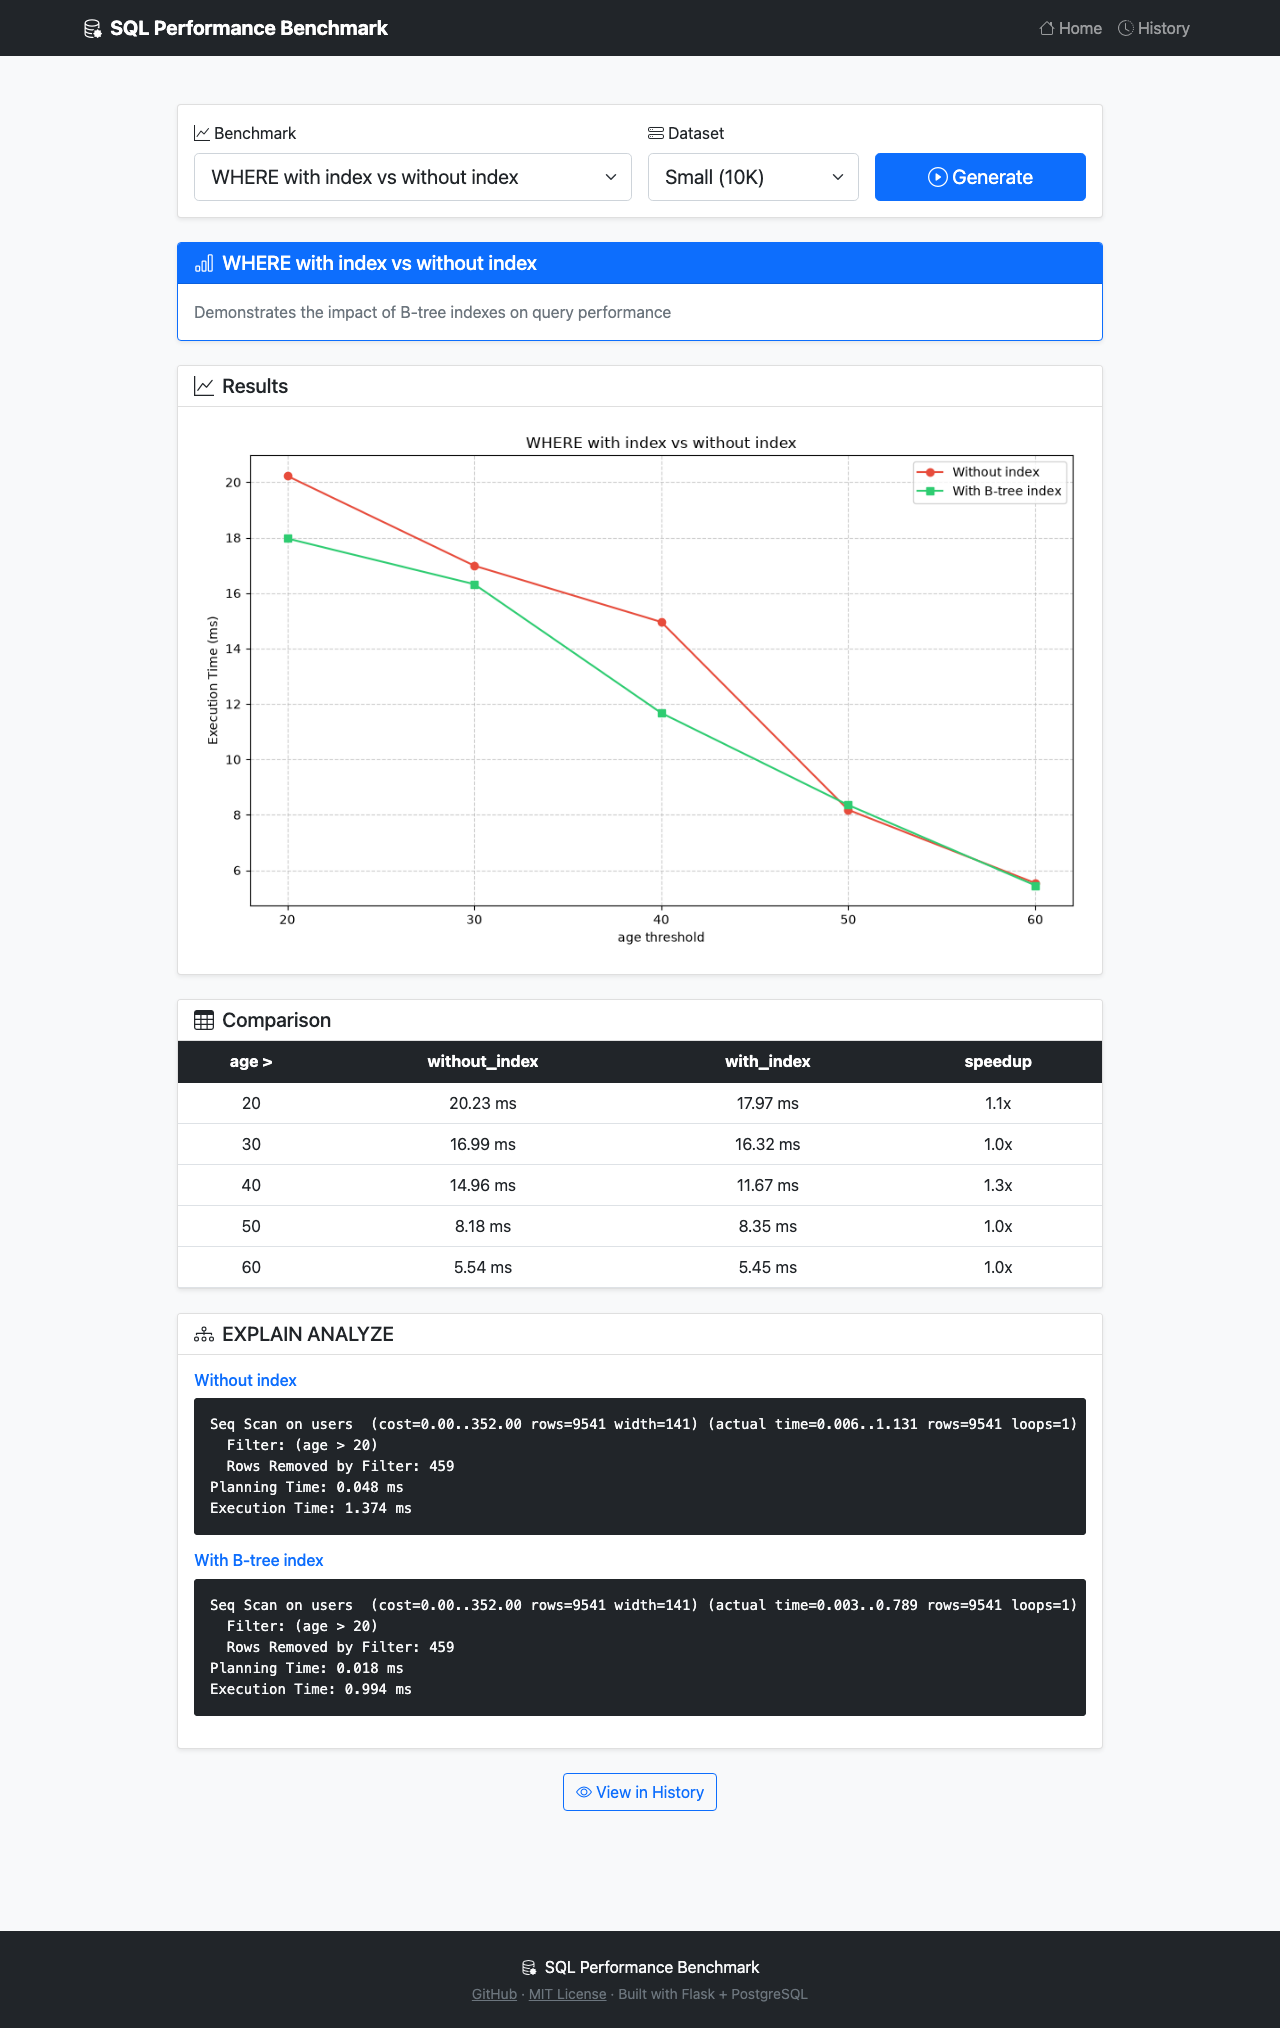
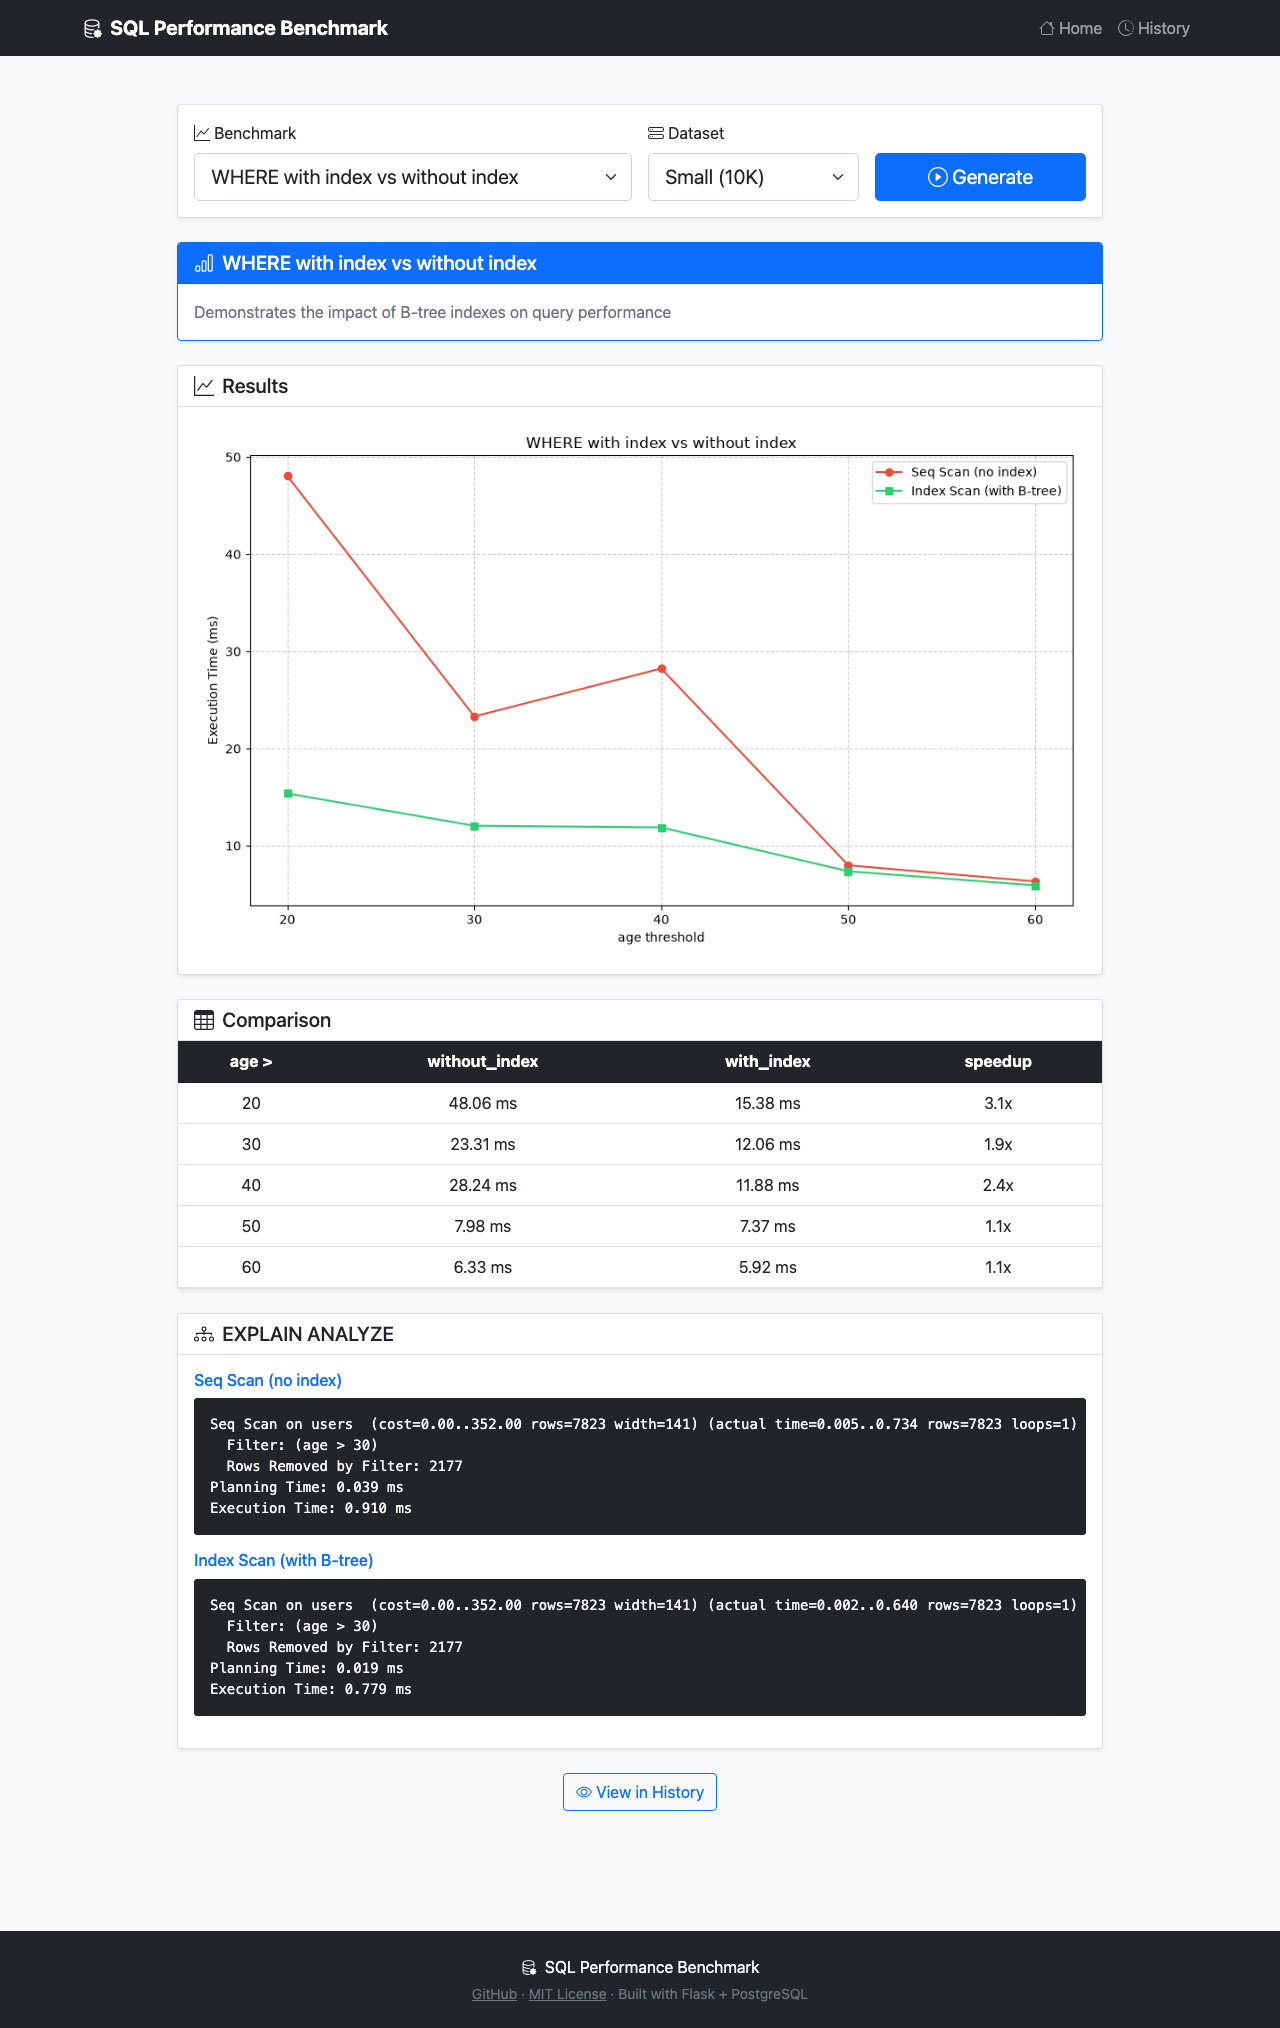
fix(benchmarks): correccion de labels, EXPLAIN y consistencia

diff --git a/benchmarks/index_usage.py b/benchmarks/index_usage.py
@@ -9,6 +9,7 @@ import pandas as pd
 from benchmarks.base import BenchmarkBase, BenchmarkResult, QueryResult
 from benchmarks.registry import register
 from app.config import TMP_DIR
+from app.benchmark import run_explain
 
 
 @register
@@ -24,10 +25,10 @@ class IndexUsageBenchmark(BenchmarkBase):
             conn.commit()
 
     def run(self, conn) -> BenchmarkResult:
-        query_no_idx = "SELECT * FROM users WHERE age > %s"
-        query_with_idx = "SELECT * FROM users WHERE age > %s"
+        query_no_idx = "SELECT * FROM users WHERE age = %s"
+        query_with_idx = "SELECT * FROM users WHERE age = %s"
 
-        thresholds = [20, 30, 40, 50, 60]
+        thresholds = [25, 30, 35, 40, 45]
 
         q1_times, q2_times = [], []
         q1_rows, q2_rows = [], []
@@ -47,22 +48,28 @@ class IndexUsageBenchmark(BenchmarkBase):
                 q2_rows.append(rows)
 
         q1 = QueryResult(
-            name="Without index",
-            query=query_no_idx.replace("%s", "20"),
+            name="Seq Scan (no index)",
+            query=query_no_idx.replace("%s", "35"),
             times=q1_times, limits=thresholds, rows_fetched=q1_rows,
         )
         q2 = QueryResult(
-            name="With B-tree index",
-            query=query_with_idx.replace("%s", "20"),
+            name="Index Scan (with B-tree)",
+            query=query_with_idx.replace("%s", "35"),
             times=q2_times, limits=thresholds, rows_fetched=q2_rows,
         )
 
-        comparison = self._build_comparison(q1, q2, "age >")
+        explain_plans = {
+            q1.name: run_explain(conn, q1.query, (35,)),
+            q2.name: run_explain(conn, q2.query, (35,)),
+        }
+
+        comparison = self._build_comparison(q1, q2, "age =")
         plot = self._build_plot(q1, q2)
 
         return BenchmarkResult(
             name=self.name, title=self.title, description=self.description,
             queries=[q1, q2], comparison_table=comparison, plot_buffer=plot,
+            explain_plans=explain_plans,
         )
 
     def teardown(self, conn) -> None:
@@ -97,7 +104,7 @@ class IndexUsageBenchmark(BenchmarkBase):
         ax.plot(q1.limits, q1.times, marker="o", label=q1.name, color="#e74c3c")
         ax.plot(q2.limits, q2.times, marker="s", label=q2.name, color="#2ecc71")
         ax.set_title(self.title)
-        ax.set_xlabel("age threshold")
+        ax.set_xlabel("age = value")
         ax.set_ylabel("Execution Time (ms)")
         ax.set_xticks(q1.limits)
         ax.grid(True, linestyle="--", alpha=0.6)

diff --git a/benchmarks/pagination.py b/benchmarks/pagination.py
@@ -9,6 +9,7 @@ import pandas as pd
 from benchmarks.base import BenchmarkBase, BenchmarkResult, QueryResult
 from benchmarks.registry import register
 from app.config import TMP_DIR
+from app.benchmark import run_explain
 
 
 @register
@@ -56,9 +57,15 @@ class PaginationBenchmark(BenchmarkBase):
         comparison = self._build_comparison(q1, q2)
         plot = self._build_plot(q1, q2)
 
+        explain_plans = {
+            q1.name: run_explain(conn, f"SELECT * FROM users ORDER BY id LIMIT 100 OFFSET 500000"),
+            q2.name: run_explain(conn, f"SELECT * FROM users WHERE id > 500000 ORDER BY id LIMIT 100"),
+        }
+
         return BenchmarkResult(
             name=self.name, title=self.title, description=self.description,
             queries=[q1, q2], comparison_table=comparison, plot_buffer=plot,
+            explain_plans=explain_plans,
         )
 
     def teardown(self, conn) -> None:

diff --git a/benchmarks/join_vs_subquery.py b/benchmarks/join_vs_subquery.py
@@ -9,6 +9,7 @@ import pandas as pd
 from benchmarks.base import BenchmarkBase, BenchmarkResult, QueryResult
 from benchmarks.registry import register
 from app.config import TMP_DIR
+from app.benchmark import run_explain
 
 
 @register
@@ -87,9 +88,16 @@ class JoinVsSubqueryBenchmark(BenchmarkBase):
         comparison = self._build_comparison(q1, q2, q3)
         plot = self._build_plot(q1, q2, q3)
 
+        explain_plans = {
+            q1.name: run_explain(conn, q1.query, (100,)),
+            q2.name: run_explain(conn, q2.query, (100,)),
+            q3.name: run_explain(conn, q3.query, (100,)),
+        }
+
         return BenchmarkResult(
             name=self.name, title=self.title, description=self.description,
             queries=[q1, q2, q3], comparison_table=comparison, plot_buffer=plot,
+            explain_plans=explain_plans,
         )
 
     def teardown(self, conn) -> None:

diff --git a/benchmarks/select_star.py b/benchmarks/select_star.py
@@ -71,11 +71,12 @@ class SelectStarBenchmark(BenchmarkBase):
         rows = []
         for i, limit in enumerate(q1.limits):
             diff = q1.times[i] - q2.times[i]
+            speedup = f"{q1.times[i] / q2.times[i]:.1f}x" if q2.times[i] > 0 else "N/A"
             rows.append({
                 "limit": limit,
-                "query_1_time": f"{q1.times[i]:.2f} ms",
-                "query_2_time": f"{q2.times[i]:.2f} ms",
-                "time_difference": f"{diff:.2f} ms",
+                "select_star": f"{q1.times[i]:.2f} ms",
+                "select_columns": f"{q2.times[i]:.2f} ms",
+                "speedup": speedup,
             })
         return pd.DataFrame(rows)
 

diff --git a/tests/test_benchmark.py b/tests/test_benchmark.py
@@ -117,8 +117,8 @@ def test_select_star_build_comparison():
 
     assert isinstance(table, pd.DataFrame)
     assert len(table) == 2
-    assert "10.00 ms" in table.iloc[0]["query_1_time"]
-    assert "8.00 ms" in table.iloc[0]["time_difference"]
+    assert "10.00 ms" in table.iloc[0]["select_star"]
+    assert "5.0x" in table.iloc[0]["speedup"]
 
 
 def test_select_star_build_plot():

diff --git a/app/config.py b/app/config.py
@@ -8,8 +8,8 @@ TMP_DIR = BASE_DIR / 'executions_tmp'
 
 START = 1000000
 STEP = 100000
-QUERY_1_NAME = 'Query 1'
-QUERY_2_NAME = 'Query 2'
+QUERY_1_NAME = 'SELECT *'
+QUERY_2_NAME = 'SELECT id, name, email'
 
 
 class Config:
